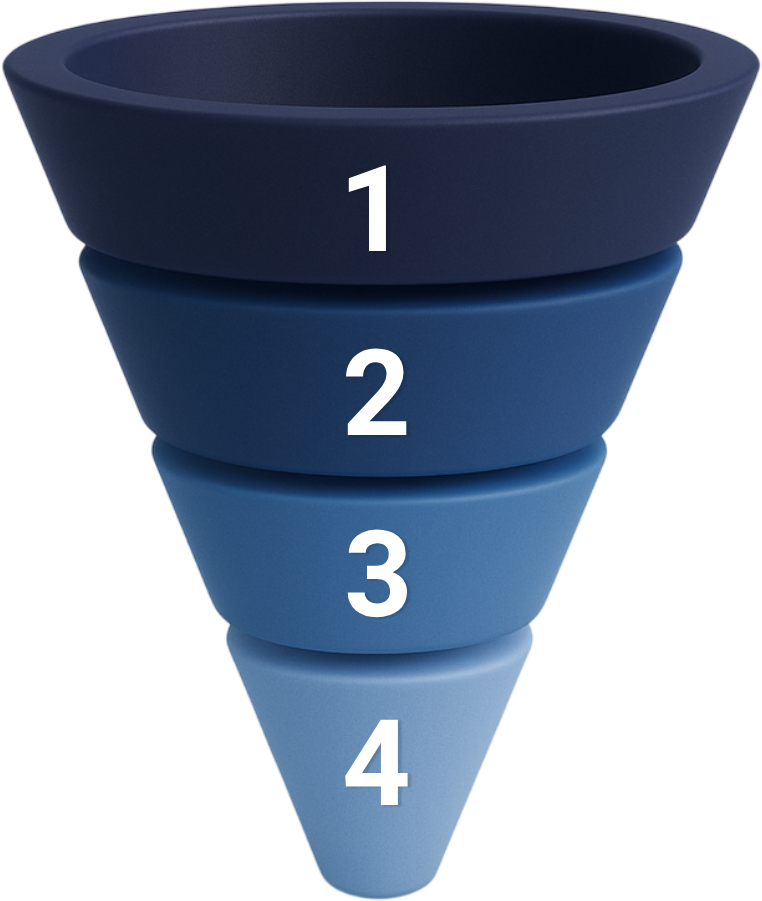
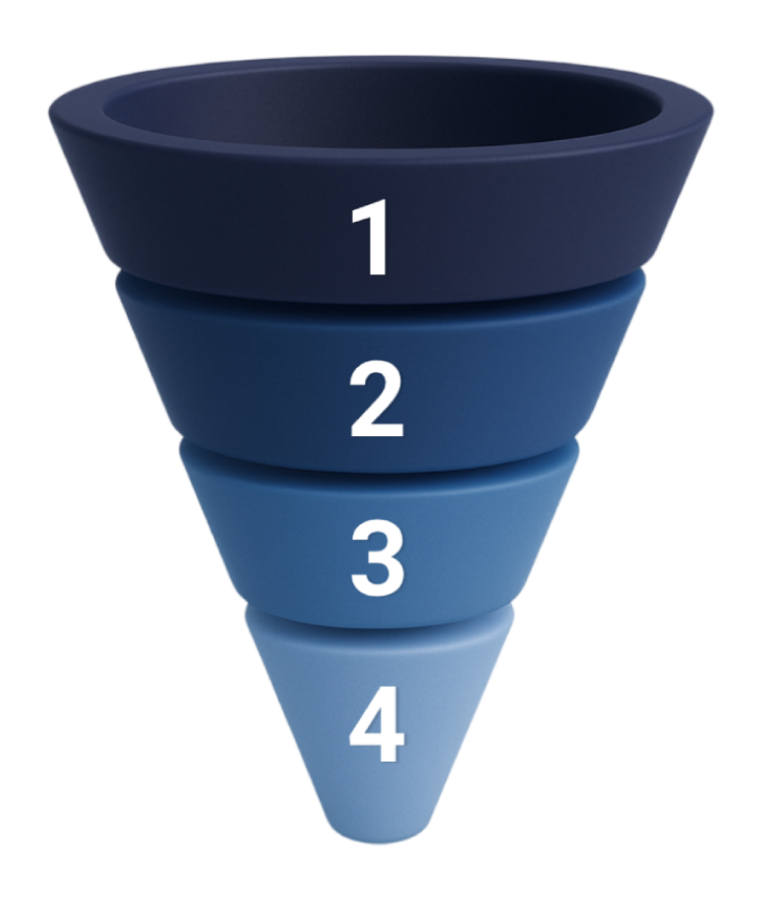
Alterando ícones do funil

Changed region(s): [[0.0, 0.0, 1.0, 1.0]]

diff --git a/assets/js/funil.js b/assets/js/funil.js
@@ -6,17 +6,17 @@ export default function initFunil() {
         'Desenvolvemos planos de tráfego digital sob medida para o seu negócio, focados nas plataformas mais relevantes para seu público. Analisamos dados e comportamentos para definir as melhores táticas que maximizam alcance e conversão.',
     },
     {
-      img: 'assets/images/icones/funil-sm.png',
+      img: 'assets/images/icones/execucaoeotimazacaoemplataformas-alt.png',
       texto:
         'Atuamos diretamente na criação, configuração e otimização das campanhas em Meta Ads, Google Ads, LinkedIn Ads, TikTok Ads e outras, garantindo que cada anúncio entregue o melhor desempenho possível.',
     },
     {
-      img: 'assets/images/icones/funil-sm.png',
+      img: 'assets/images/icones/monitoria-alt.png',
       texto:
         'Fazemos um acompanhamento contínuo de todas as ações implementadas nas suas plataformas. Isso inclui análise de métricas, identificação de gargalos, oportunidades de crescimento e ajustes estratégicos em tempo real. Nossa monitoria garante que você tenha total controle do que está funcionando — e o que precisa ser melhorado — para manter o desempenho sempre em alta.',
     },
     {
-      img: 'assets/images/icones/funil-sm.png',
+      img: 'assets/images/icones/equipecertificada-alt.png',
       texto:
         'Nossa equipe é composta por profissionais certificados pelas principais plataformas do mercado digital. Isso significa que estamos sempre atualizados com as melhores práticas, ferramentas e estratégias do setor. Trabalhamos com comprometimento, conhecimento técnico e foco em resultados, oferecendo um atendimento consultivo e soluções personalizadas para cada etapa do seu funil de vendas.',
     },
